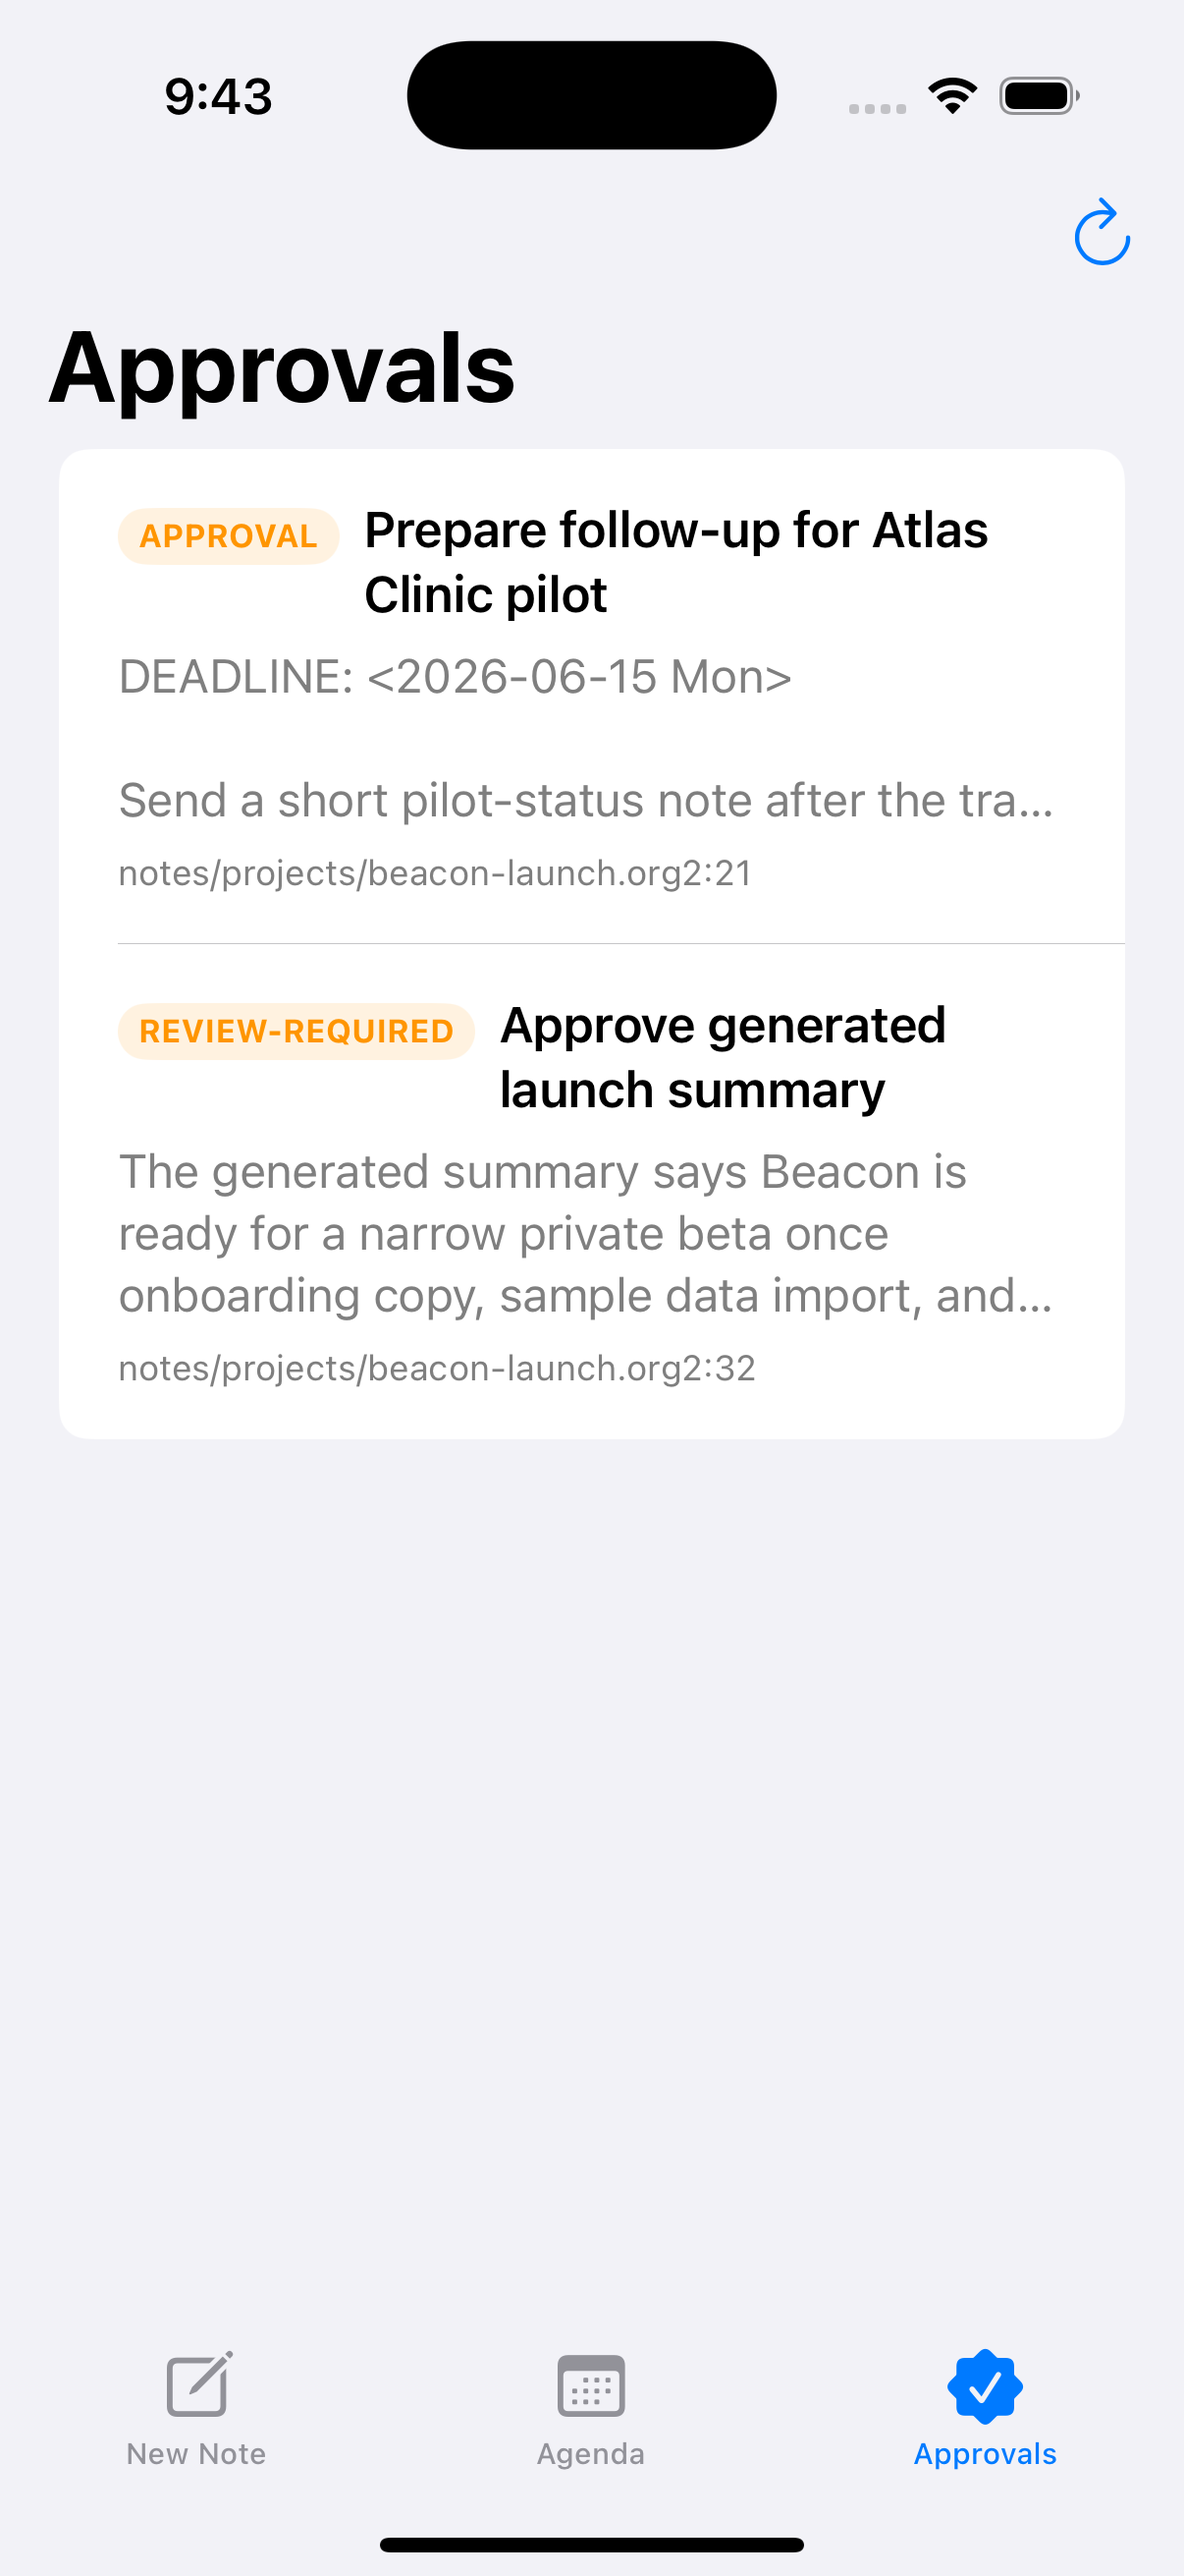
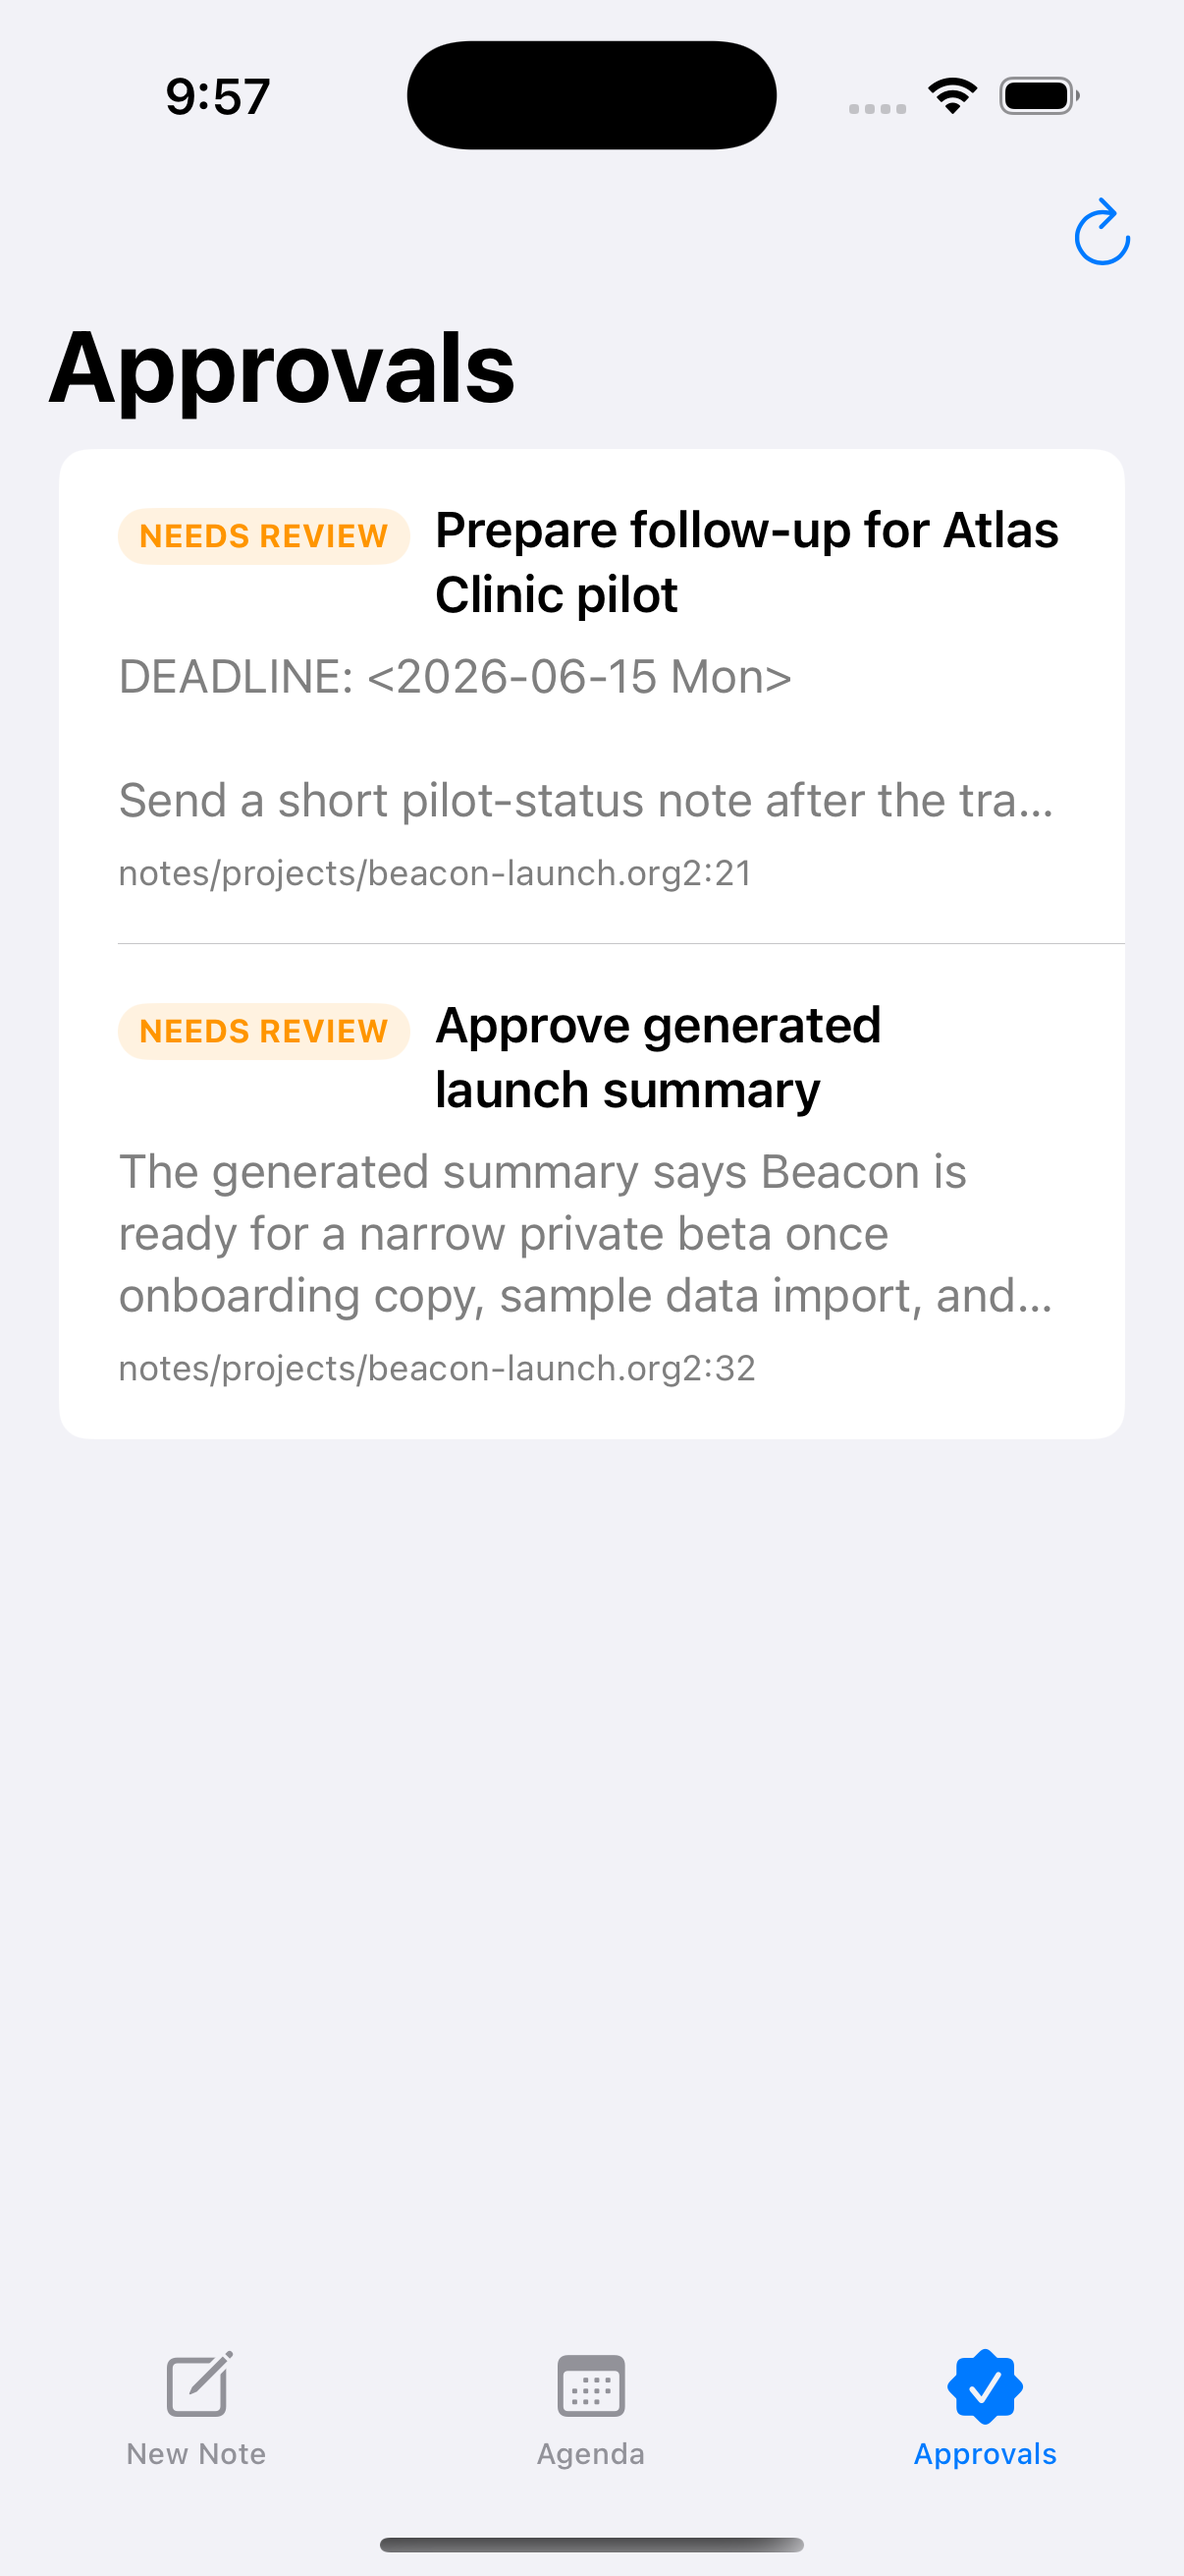
Normalize mobile approval status labels

diff --git a/apps/ios/Org2Mobile/Org2Mobile/ContentView.swift b/apps/ios/Org2Mobile/Org2Mobile/ContentView.swift
@@ -551,7 +551,7 @@ private struct StatusPill: View {
   }
 
   var body: some View {
-    Text(text.uppercased())
+    Text(displayText.uppercased())
       .font(.caption2.weight(.bold))
       .padding(.horizontal, 7)
       .padding(.vertical, 3)
@@ -559,6 +559,21 @@ private struct StatusPill: View {
       .background(color.opacity(0.12), in: Capsule())
       .lineLimit(1)
       .minimumScaleFactor(0.75)
+  }
+
+  private var displayText: String {
+    let normalized = text.lowercased().trimmingCharacters(in: .whitespacesAndNewlines)
+    if normalized == "review-required"
+      || normalized == "requires-review"
+      || normalized == "approval-required"
+      || normalized == "needs-approval"
+      || normalized == "pending-approval"
+      || normalized == "approval"
+      || normalized.contains("approval")
+      || normalized.contains("review") {
+      return "Needs Review"
+    }
+    return text
   }
 
   private var color: Color {
